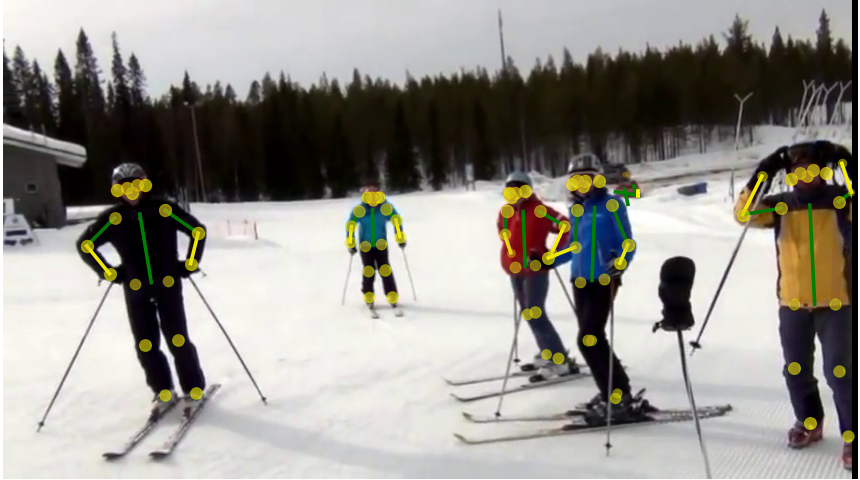
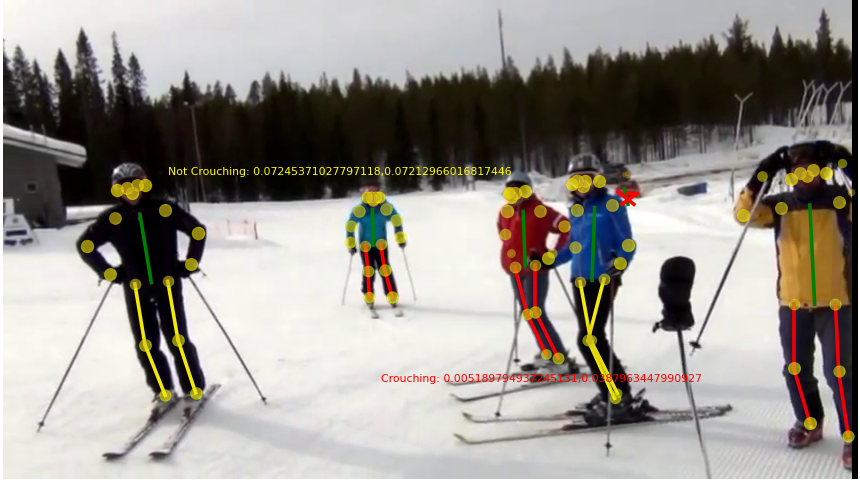
pose recognition!

diff --git a/basic_recognition.py b/basic_recognition.py
@@ -7,38 +7,22 @@ from tqdm import tqdm
 
 
 def angle(v1, v2):
-    return np.abs(np.arccos(np.dot(v1, v2) / (np.linalg.norm(v1) * np.linalg.norm(v2))))
+    v1_u = v1 / np.linalg.norm(v1)
+    v2_u = v2 / np.linalg.norm(v2)
+    return np.arccos(np.clip(np.dot(v1_u, v2_u), -1.0, 1.0))
 
 
-def angleBetweenLines(line1, line2):
-    # line1 = [[x1, y1], [x2, y2]]
-    # line2 = [[x3, y3], [x4, y4]]
-    # By projecting one end of the line to the other line, determine which is the longer side
-    # and then decide whether the angle is larger than 90 degrees
-    x1, y1 = line1[0]
-    x2, y2 = line1[1]
-    x3, y3 = line2[0]
-    x4, y4 = line2[1]
-    v1 = np.array([x2-x1, y2-y1])
-    v2 = np.array([x4-x3, y4-y3])
-    v3 = np.array([x4-x1, y4-y1])
-    v4 = np.array([x2-x3, y2-y3])
-    if np.linalg.norm(v1) > np.linalg.norm(v2):
-        if np.linalg.norm(v3) < np.linalg.norm(v1):
-            return angle(v1, v3)
-        else:
-            return angle(v1, v4)
-    else:
-        if np.linalg.norm(v3) < np.linalg.norm(v2):
-            return angle(v2, v3)
-        else:
-            return angle(v2, v4)
+def angleBetweenLines(l1, l2):
+    x1, y1 = l1[0][0] - l1[1][0], l1[0][1] - l1[1][1]
+    x2, y2 = l2[0][0] - l2[1][0], l2[0][1] - l2[1][1]
+    return np.arccos((x1 * x2 + y1 * y2) / (np.sqrt(x1 * x1 + y1 * y1) * np.sqrt(x2 * x2 + y2 * y2)))
 
 # visualization (from poseflow)
 
 
-def display_pose(imgdir, visdir, tracked, cmap):
+def display_pose(imgdir, visdir, track, cmap=plt.cm.get_cmap(), limit=0.03):
     print("Start visualization...\n")
+    tracked = reader(track)
     for imgname in tqdm(tracked.keys()):
         img = Image.open(os.path.join(imgdir, imgname))
         width, height = img.size
@@ -78,63 +62,34 @@ def display_pose(imgdir, visdir, tracked, cmap):
             drawLine(Body, 'green')
             stdAngle = angle(Body[0], Body[1])
 
-            # Determine whether the person's left upper arm is raised
-            # If the angle between the left ankle to shoulder and the standard angle is greater than 90 degrees, it is considered to be raised
-            LArm = [np.clip(pose[[5, 7], 0], 0, width),
-                    np.clip(pose[[5, 7], 1], 0, height)]
-            if angleBetweenLines(LArm, Body) > 1.57:
-                drawLine(LArm, 'yellow')
-                raised['LArm'] = True
+            # Determine whether the person is standing or crouching
+            # Achieve this by calculating the angle between the line of hip to knee and the line of knee to ankle
+            LLeg = [np.clip(pose[[11, 13], 0], 0, width),
+                    np.clip(pose[[11, 13], 1], 0, height)]
+            RLeg = [np.clip(pose[[12, 14], 0], 0, width),
+                    np.clip(pose[[12, 14], 1], 0, height)]
+            LLLeg = [np.clip(pose[[13, 15], 0], 0, width),
+                     np.clip(pose[[13, 15], 1], 0, height)]
+            RLLeg = [np.clip(pose[[14, 16], 0], 0, width),
+                     np.clip(pose[[14, 16], 1], 0, height)]
+            LAngle = angleBetweenLines(LLeg, LLLeg)
+            RAngle = angleBetweenLines(RLeg, RLLeg)
+            if -limit < LAngle < limit and -limit < RAngle < limit:
+                raised['body'] = True
+                drawLine(LLeg, 'red')
+                drawLine(RLeg, 'red')
+                drawLine(LLLeg, 'red')
+                drawLine(RLLeg, 'red')
+                drawText(np.clip(pose[[11, 13], 0], 0, width),
+                         'Crouching: '+str(LAngle) + ','+str(RAngle), 'red')
             else:
-                drawLine(LArm, 'green')
-                raised['LArm'] = False
-
-            # Same for the right upper arm
-            RArm = [np.clip(pose[[6, 8], 0], 0, width),
-                    np.clip(pose[[6, 8], 1], 0, height)]
-            if angleBetweenLines(RArm, Body) > 1.57:
-                drawLine(RArm, 'yellow')
-                raised['RArm'] = True
-            else:
-                drawLine(RArm, 'green')
-                raised['RArm'] = False
-
-            # Determine whether the person's left lower arm is raised
-            # If the angle between the left wrist to elbow and the upper arm is lower than 90 degrees, it is considered to be raised, unless the upper arm is raised
-            LLArm = [np.clip(pose[[7, 9], 0], 0, width),
-                     np.clip(pose[[7, 9], 1], 0, height)]
-            if raised['LArm']:
-                if angleBetweenLines(LLArm, LArm) > 1.57:
-                    drawLine(LLArm, 'yellow')
-                    raised['LLArm'] = True
-                else:
-                    drawLine(LLArm, 'green')
-                    raised['LLArm'] = False
-            else:
-                if angleBetweenLines(LLArm, LArm) > 1.57:
-                    drawLine(LLArm, 'green')
-                    raised['LLArm'] = False
-                else:
-                    drawLine(LLArm, 'yellow')
-                    raised['LLArm'] = True
-
-            # Same for the right lower arm
-            RLArm = [np.clip(pose[[8, 10], 0], 0, width),
-                     np.clip(pose[[8, 10], 1], 0, height)]
-            if raised['RArm']:
-                if angleBetweenLines(RLArm, RArm) > 1.57:
-                    drawLine(RLArm, 'yellow')
-                    raised['RLArm'] = True
-                else:
-                    drawLine(RLArm, 'green')
-                    raised['RLArm'] = False
-            else:
-                if angleBetweenLines(RLArm, RArm) > 1.57:
-                    drawLine(RLArm, 'green')
-                    raised['RLArm'] = False
-                else:
-                    drawLine(RLArm, 'yellow')
-                    raised['RLArm'] = True
+                raised['body'] = False
+                drawLine(LLeg, 'yellow')
+                drawLine(RLeg, 'yellow')
+                drawLine(LLLeg, 'yellow')
+                drawLine(RLLeg, 'yellow')
+                drawText(np.clip(pose[[11, 13], 0], 0, width),
+                         'Not Crouching: '+str(LAngle) + ','+str(RAngle), 'yellow')
 
             # Draw the keypoints
             for idx_c, color in enumerate(colors):
@@ -165,5 +120,6 @@ def drawLine(line: list, color: str):
     plt.plot(line[0], line[1], 'r-', linewidth=20, color=color)
 
 
-display_pose('examples/', 'examples/vis/',
-             reader('examples/output.json'), plt.cm.get_cmap())
+def drawText(pos: list, text: str, color: str):
+    plt.text(pos[0], pos[1], text, color=color, fontsize=60)
+

diff --git a/cli.py b/cli.py
@@ -4,6 +4,7 @@ import torch
 from image import run_image
 from video import run_video
 from webcam import run_webcam
+from basic_recognition import display_pose
 
 app = typer.Typer()
 
@@ -28,6 +29,10 @@ def video(input_path: str, output_path: str, device: str = auto_device(), output
 def webcam(config: str = "webcam_cfg/pose_tracking.py", device: str = auto_device()):
     run_webcam(config=config, device=device)
 
+
+@app.command()
+def recognition(path: str, outpath: str, tracked: str, limit: float = 0.03):
+    display_pose(path, outpath, tracked, limit=limit)
 
 if __name__ == "__main__":
     app()

diff --git a/README.md b/README.md
@@ -60,3 +60,9 @@ Press <kbd>Q</kbd> to quit.
 ```sh
 python cli.py webcam --config webcam_cfg/pose_tracking.py
 ```
+
+### Pose recognition
+```sh
+python cli.py recognition [img_dir] [out_dir] [json_file] [--limit=float]
+```
+`--limit` determines the threshold for posing recognition
